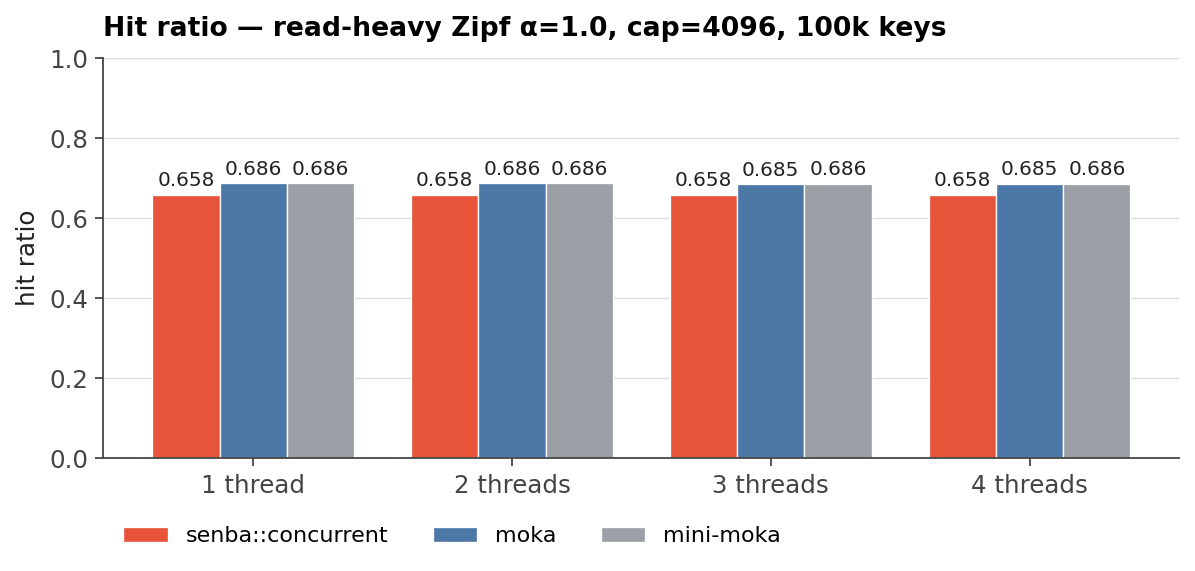
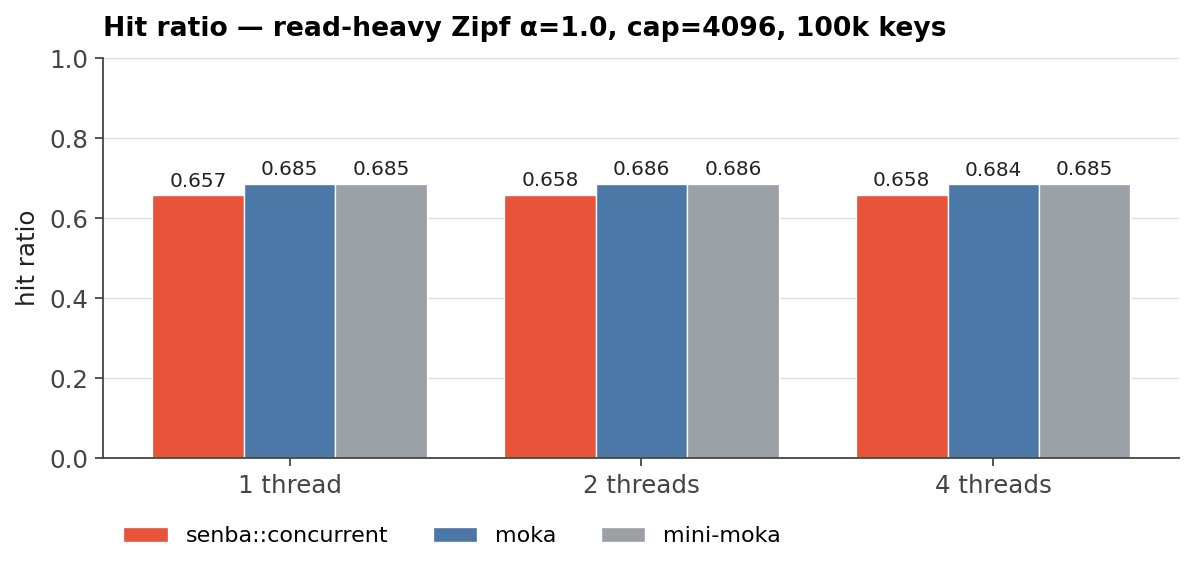
bench(readme-headline): add single-thread senba vs mini-moka vs lru cell
Extends the AWS c8i.2xlarge sweep with a serial library comparison (taskset
-c 0, Zipf α=1.0, cap=4096, 2M ops). senba 39.68 Mops vs mini-moka 18.23
Mops (2.18x) vs lru 38.73 Mops, all at ~0.71 hit ratio. T=3 dropped from
the concurrent sweep (T=1/2/4 only).

diff --git a/docs/benchmark/readme-headline/plot.py b/docs/benchmark/readme-headline/plot.py
@@ -1,12 +1,14 @@
 #!/usr/bin/env python3
 """README headline benchmark plot.
 
-Input  : data/results.csv (run.sh output)
+Input  : data/results.csv + data/results_serial.csv (run.sh outputs)
 Outputs (figures/):
-  - throughput.png     : Mops vs threads, headline chart for README
-  - latency.png        : p50 / p99 chunk latency vs threads (log y)
-  - hit_ratio.png      : hit ratio vs threads — parity check on this workload
-  - summary.md         : per-cell mean Mops + ratio vs moka / mini_moka
+  - throughput.png         : Mops vs threads, concurrent headline chart
+  - latency.png            : p50 / p99 chunk latency vs threads (log y)
+  - hit_ratio.png          : hit ratio vs threads — parity check
+  - serial_throughput.png  : single-thread Mops, senba::Cache vs mini-moka / lru
+  - serial_hit_ratio.png   : single-thread hit ratio parity check
+  - summary.md             : per-cell means, ratios, and 1T → 4T scaling
 
 Run    : uv run --project scripts python docs/benchmark/readme-headline/plot.py
 """
@@ -23,6 +25,7 @@ from matplotlib import rcParams
 
 HERE = Path(__file__).resolve().parent
 DATA = HERE / "data" / "results.csv"
+SERIAL_DATA = HERE / "data" / "results_serial.csv"
 FIG = HERE / "figures"
 FIG.mkdir(exist_ok=True)
 
@@ -38,6 +41,18 @@ COLORS = {
     "senba_concurrent": "#e8543a",
     "moka": "#4c78a8",
     "mini_moka": "#9aa0a6",
+}
+
+SERIAL_VARIANTS = ["senba", "mini_moka_unsync", "lru"]
+SERIAL_LABELS = {
+    "senba": "senba::Cache",
+    "mini_moka_unsync": "mini-moka (unsync)",
+    "lru": "lru-rs",
+}
+SERIAL_COLORS = {
+    "senba": "#e8543a",
+    "mini_moka_unsync": "#9aa0a6",
+    "lru": "#4c78a8",
 }
 
 # Shared style tuned for README rendering on GitHub (light bg, ~720px wide).
@@ -69,6 +84,20 @@ def load() -> pd.DataFrame:
     df = pd.read_csv(DATA)
     if df.empty:
         sys.exit("results.csv has no data rows")
+    return df
+
+
+def load_serial() -> pd.DataFrame | None:
+    if not SERIAL_DATA.exists():
+        print(f"note: {SERIAL_DATA} not found; skipping serial plots", file=sys.stderr)
+        return None
+    df = pd.read_csv(SERIAL_DATA)
+    if df.empty:
+        print(f"note: {SERIAL_DATA} has no data rows; skipping serial plots", file=sys.stderr)
+        return None
+    # bench.rs emits totals — derive throughput / hit ratio per row.
+    df["aggregate_mops"] = df["len"] * 1000.0 / df["elapsed_ns"]
+    df["hit_ratio"] = df["hits"] / (df["hits"] + df["misses"])
     return df
 
 
@@ -260,7 +289,98 @@ def plot_hit_ratio(df: pd.DataFrame) -> None:
     print(f"wrote {out}", file=sys.stderr)
 
 
-def write_summary(df: pd.DataFrame) -> None:
+def plot_serial_throughput(df: pd.DataFrame) -> None:
+    means = [_mean(df, "aggregate_mops", v) for v in SERIAL_VARIANTS]
+    x = np.arange(len(SERIAL_VARIANTS))
+
+    fig, ax = plt.subplots(figsize=(7.6, 4.0))
+    ax.set_axisbelow(True)
+    ax.grid(axis="x", visible=False)
+
+    bars = ax.bar(
+        x,
+        means,
+        0.55,
+        color=[SERIAL_COLORS[v] for v in SERIAL_VARIANTS],
+        edgecolor="white",
+        linewidth=0.6,
+    )
+    for bar, m in zip(bars, means):
+        ax.text(
+            bar.get_x() + bar.get_width() / 2,
+            bar.get_height() + max(means) * 0.012,
+            f"{m:.1f}",
+            ha="center",
+            va="bottom",
+            fontsize=10,
+            color="#222",
+        )
+
+    ax.set_ylim(0, max(means) * 1.12)
+    ax.set_xticks(x)
+    ax.set_xticklabels([SERIAL_LABELS[v] for v in SERIAL_VARIANTS])
+    ax.set_ylabel("throughput  (million ops / sec)")
+    ax.set_title(
+        "Single-thread cache throughput — read-heavy Zipf α=1.0, cap=4096",
+        loc="left",
+        pad=10,
+        fontweight="bold",
+    )
+
+    fig.tight_layout()
+    out = FIG / "serial_throughput.png"
+    fig.savefig(out, dpi=160)
+    plt.close(fig)
+    print(f"wrote {out}", file=sys.stderr)
+
+
+def plot_serial_hit_ratio(df: pd.DataFrame) -> None:
+    means = [_mean(df, "hit_ratio", v) for v in SERIAL_VARIANTS]
+    x = np.arange(len(SERIAL_VARIANTS))
+
+    fig, ax = plt.subplots(figsize=(7.6, 4.0))
+    ax.set_axisbelow(True)
+    ax.grid(axis="x", visible=False)
+
+    bars = ax.bar(
+        x,
+        means,
+        0.55,
+        color=[SERIAL_COLORS[v] for v in SERIAL_VARIANTS],
+        edgecolor="white",
+        linewidth=0.6,
+    )
+    for bar, m in zip(bars, means):
+        ax.text(
+            bar.get_x() + bar.get_width() / 2,
+            bar.get_height() + 0.012,
+            f"{m:.3f}",
+            ha="center",
+            va="bottom",
+            fontsize=10,
+            color="#222",
+        )
+
+    ax.set_ylim(0.0, 1.0)
+    ax.set_yticks(np.linspace(0.0, 1.0, 6))
+    ax.set_xticks(x)
+    ax.set_xticklabels([SERIAL_LABELS[v] for v in SERIAL_VARIANTS])
+    ax.set_ylabel("hit ratio")
+    ax.set_title(
+        "Single-thread hit ratio — Zipf α=1.0, cap=4096, 100k keys",
+        loc="left",
+        pad=10,
+        fontweight="bold",
+    )
+
+    fig.tight_layout()
+    out = FIG / "serial_hit_ratio.png"
+    fig.savefig(out, dpi=160)
+    plt.close(fig)
+    print(f"wrote {out}", file=sys.stderr)
+
+
+def write_summary(df: pd.DataFrame, df_serial: pd.DataFrame | None = None) -> None:
     threads = sorted(df["threads"].unique())
     rows = []
     for t in threads:
@@ -317,6 +437,28 @@ def write_summary(df: pd.DataFrame) -> None:
         f.write(f"- senba::concurrent : {s1:.2f} → {s4:.2f} Mops ({s4 / s1:.2f}x)\n")
         f.write(f"- moka              : {mo1:.2f} → {mo4:.2f} Mops ({mo4 / mo1:.2f}x)\n")
         f.write(f"- mini-moka         : {mi1:.2f} → {mi4:.2f} Mops ({mi4 / mi1:.2f}x)\n")
+
+        if df_serial is not None:
+            s_mops = _mean(df_serial, "aggregate_mops", "senba")
+            mi_mops = _mean(df_serial, "aggregate_mops", "mini_moka_unsync")
+            lr_mops = _mean(df_serial, "aggregate_mops", "lru")
+            s_hit = _mean(df_serial, "hit_ratio", "senba")
+            mi_hit = _mean(df_serial, "hit_ratio", "mini_moka_unsync")
+            lr_hit = _mean(df_serial, "hit_ratio", "lru")
+            f.write("\n## Single-thread (1 core, taskset -c 0)\n\n")
+            f.write(
+                "senba::Cache vs mini-moka (unsync) vs lru-rs. "
+                "Zipf α=1.0, cap=4096, 100k keys, 2M ops, value=u64, 3 trials.\n\n"
+            )
+            f.write("| variant | Mops | hit ratio | senba ratio |\n")
+            f.write("| --- | --- | --- | --- |\n")
+            f.write(f"| senba::Cache       | {s_mops:.2f} | {s_hit:.4f} | 1.00x |\n")
+            f.write(
+                f"| mini-moka (unsync) | {mi_mops:.2f} | {mi_hit:.4f} | {s_mops / mi_mops:.2f}x |\n"
+            )
+            f.write(
+                f"| lru-rs             | {lr_mops:.2f} | {lr_hit:.4f} | {s_mops / lr_mops:.2f}x |\n"
+            )
     print(f"wrote {out}", file=sys.stderr)
 
 
@@ -325,7 +467,11 @@ def main() -> None:
     plot_throughput(df)
     plot_latency(df)
     plot_hit_ratio(df)
-    write_summary(df)
+    df_serial = load_serial()
+    if df_serial is not None:
+        plot_serial_throughput(df_serial)
+        plot_serial_hit_ratio(df_serial)
+    write_summary(df, df_serial)
 
 
 if __name__ == "__main__":

diff --git a/docs/benchmark/readme-headline/figures/summary.md b/docs/benchmark/readme-headline/figures/summary.md
@@ -4,13 +4,22 @@ AWS c8i.2xlarge (Granite Rapids), 4 physical cores + SMT. Threads pinned to cpus
 
 | T | senba Mops | moka Mops | mini Mops | senba/moka | senba/mini | senba hit | moka hit | mini hit | senba p99 ns | moka p99 ns | mini p99 ns |
 | --- | --- | --- | --- | --- | --- | --- | --- | --- | --- | --- | --- |
-| 1 | 14.76 | 4.31 | 3.51 | 3.42x | 4.21x | 0.6577 | 0.6863 | 0.6864 | 84.0 | 258.0 | 316.0 |
-| 2 | 22.02 | 3.32 | 2.11 | 6.63x | 10.45x | 0.6583 | 0.6865 | 0.6863 | 119.0 | 1558.0 | 1007.0 |
-| 3 | 32.19 | 3.55 | 2.48 | 9.06x | 12.98x | 0.6584 | 0.6849 | 0.6861 | 109.0 | 1735.0 | 1302.0 |
-| 4 | 40.42 | 3.62 | 2.62 | 11.16x | 15.42x | 0.6584 | 0.6852 | 0.6861 | 125.0 | 1922.0 | 1656.0 |
+| 1 | 15.13 | 4.37 | 3.55 | 3.46x | 4.26x | 0.6572 | 0.685 | 0.6851 | 75.0 | 250.0 | 303.0 |
+| 2 | 22.91 | 3.36 | 2.1 | 6.81x | 10.90x | 0.6583 | 0.686 | 0.6861 | 99.0 | 1081.0 | 1003.0 |
+| 4 | 42.15 | 3.9 | 2.78 | 10.82x | 15.19x | 0.6584 | 0.6842 | 0.6853 | 111.0 | 1930.0 | 1555.0 |
 
 ## Scaling 1T → 4T
 
-- senba::concurrent : 14.76 → 40.42 Mops (2.74x)
-- moka              : 4.31 → 3.62 Mops (0.84x)
-- mini-moka         : 3.51 → 2.62 Mops (0.75x)
+- senba::concurrent : 15.13 → 42.15 Mops (2.79x)
+- moka              : 4.37 → 3.90 Mops (0.89x)
+- mini-moka         : 3.55 → 2.78 Mops (0.78x)
+
+## Single-thread (1 core, taskset -c 0)
+
+senba::Cache vs mini-moka (unsync) vs lru-rs. Zipf α=1.0, cap=4096, 100k keys, 2M ops, value=u64, 3 trials.
+
+| variant | Mops | hit ratio | senba ratio |
+| --- | --- | --- | --- |
+| senba::Cache       | 39.68 | 0.7131 | 1.00x |
+| mini-moka (unsync) | 18.23 | 0.7111 | 2.18x |
+| lru-rs             | 38.73 | 0.6449 | 1.02x |